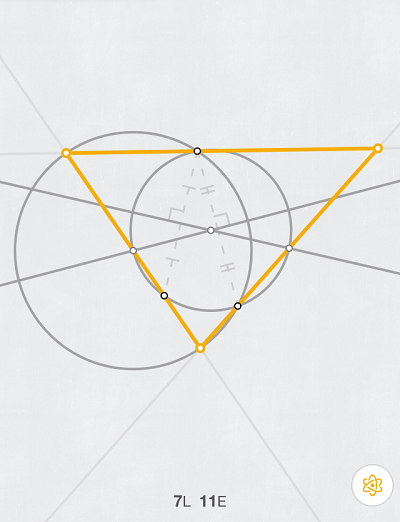
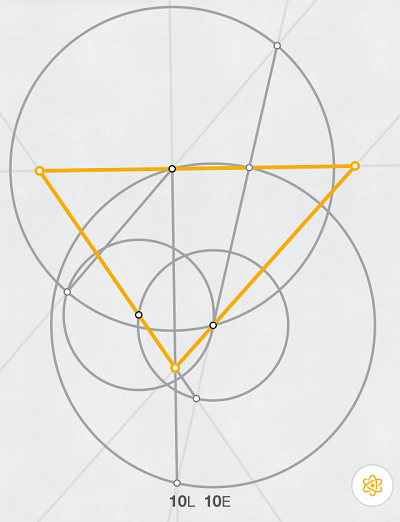
Update 11.3 10E solution

diff --git a/v1/Euclidea3.md b/v1/Euclidea3.md
@@ -458,9 +458,9 @@
 解：[6L，由重心将中线分成1:2求出一边的中点。](solving/d11.2.1.png)  
 解：[7E，思路与6L相同，只是避免使用中垂线工具。](solving/d11.2.2.png)  
 
-- 11.3 由垂足确定的三角形 *5L 11E*  
+- 11.3 由垂足确定的三角形 *5L 10E*  
 解：[5L，由高是垂足三角形的角平分线来构造。](solving/d11.3.1.png)  
-解：[11E，利用九点圆，找出两边的中点，从而作出边。](solving/d11.3.2.png)  
+解：[10E，利用平行线以及圆得到角平分线的垂线(可以用此技巧得到两条边)，通过前面同时得到的角平分线和一条边的交点得到三角形的一个顶点，从而得出第三条边。](solving/d11.3.2.png)  
 
 - 11.4 由内切圆的切点确定的三角形 *6L 11E*  
 解：[6L，作出给定三点的外心，然后垂直可得欲构造三角形的边。](solving/d11.4.1.png)  

diff --git a/11.Lambda.md b/11.Lambda.md
@@ -14,12 +14,12 @@
 - *7E*解题思路：【待补充】。[参考图](solved/11.2.7E.png)
 
 
-##### 11.3 Triangle by Altitude Base Points *目标：5L 11E*
+##### 11.3 Triangle by Altitude Base Points *目标：5L 10E*
 - [查看题目](images/level/tr-by-altitude-bases.png) 
 + *5L*步骤：角分，角分，垂线，线，线
 - *5L*解题思路：【待补充】。[参考图](solved/11.3.5L.png)
-+ *11E*步骤：垂分，垂分，圆，圆，线，线，线
-- *11E*解题思路：【待补充】。[参考图](solved/11.3.11E.png)
++ *10E*步骤：圆，圆，线，线，圆，线，线，圆，线，线
+- *10E*解题思路：【待补充】。[参考图](solved/11.3.10E.png)
 
 
 ##### 11.4 Triangle by Tangent Points *目标：6L 11E*

diff --git a/README.md b/README.md
@@ -12,6 +12,7 @@
 - [v1版本链接(全最优解更新完成)](https://mathsfans.github.io/Euclidea/v1/)  
 
 重要解法更新：
+- (2017-04-12) 11.3 10E新纪录解法  
 - (2017-02-28) 8.8 5E新纪录解法  
 - (2017-01-19) 5.5 5E新纪录解法  
 - (2016-12-02) 7.3 3L新纪录解法  
